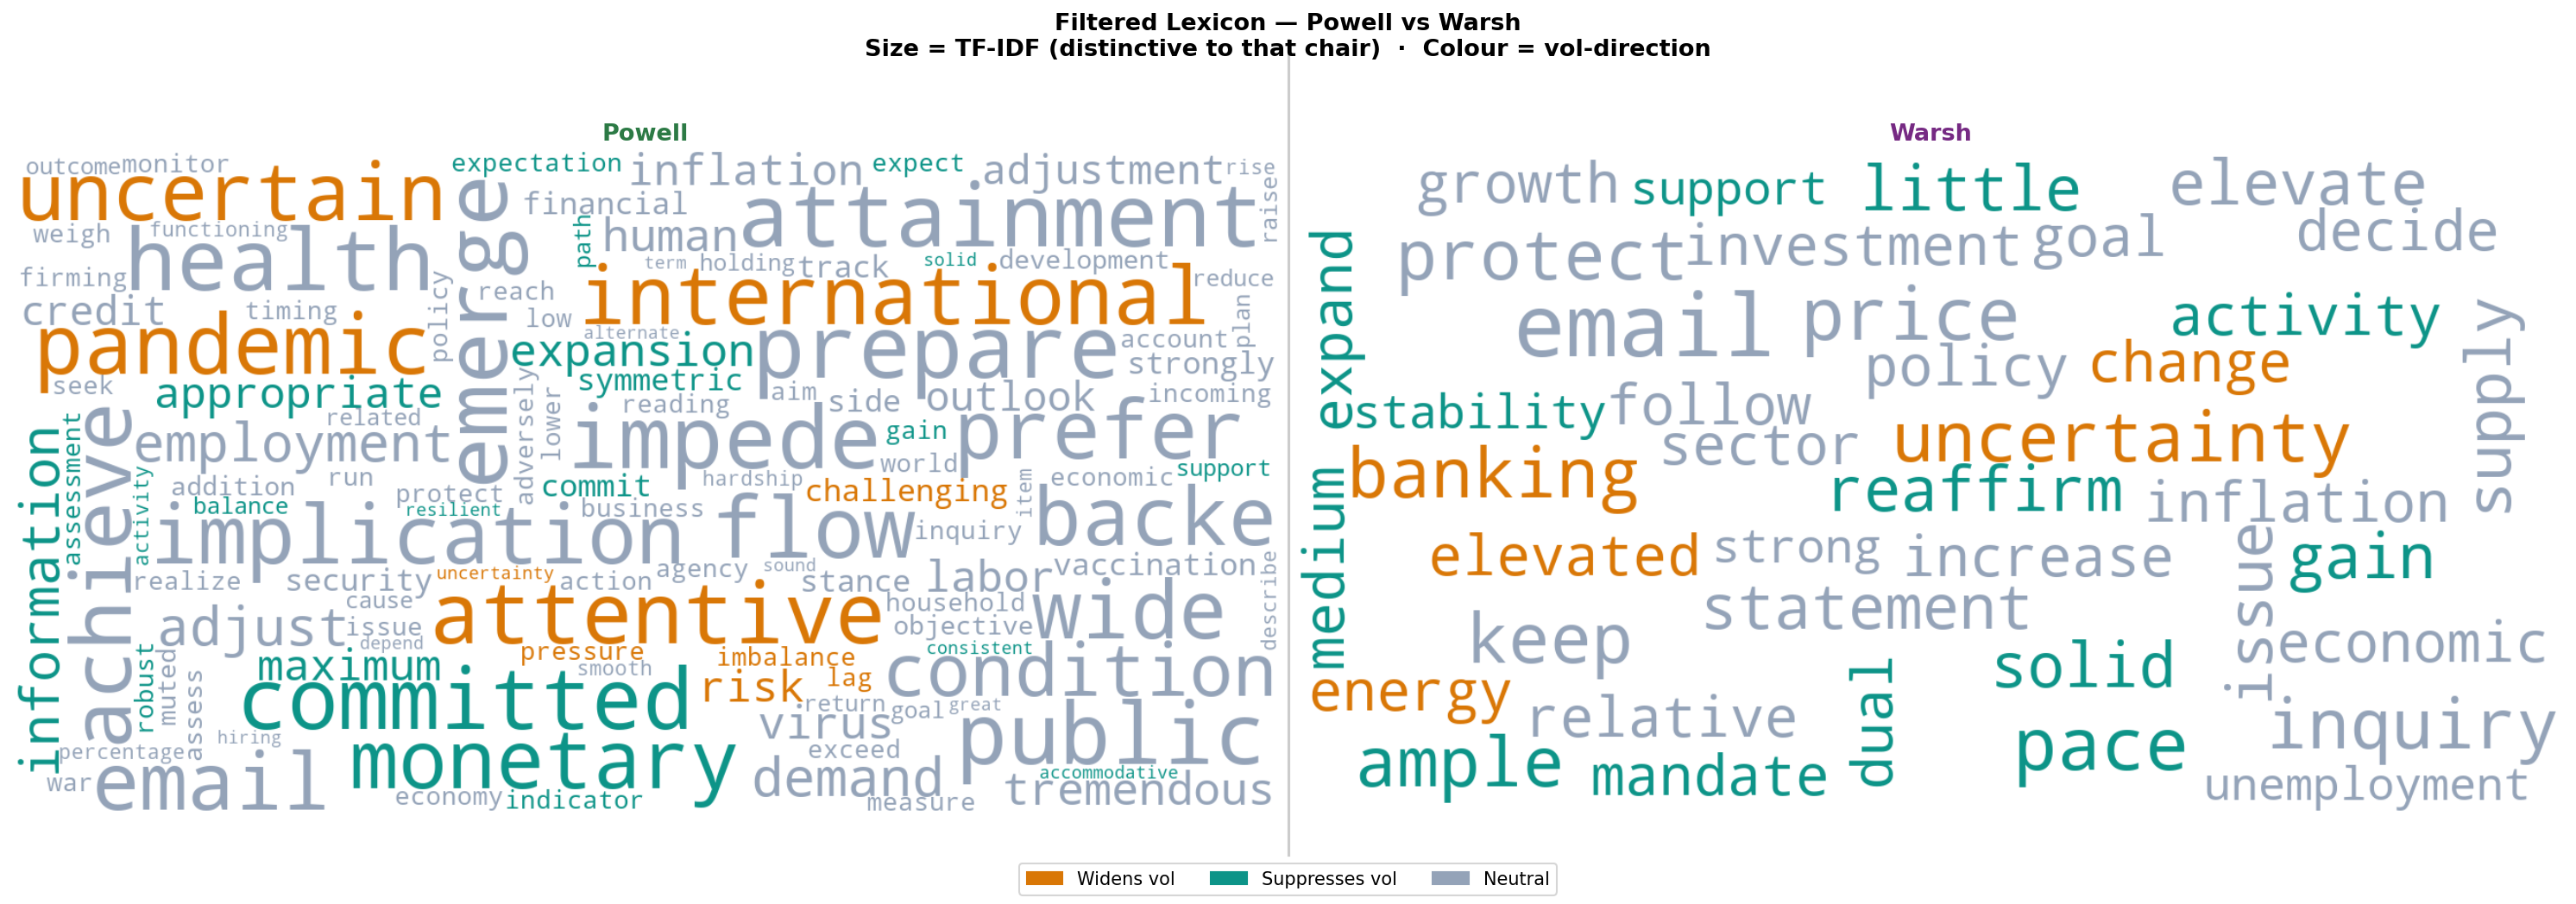
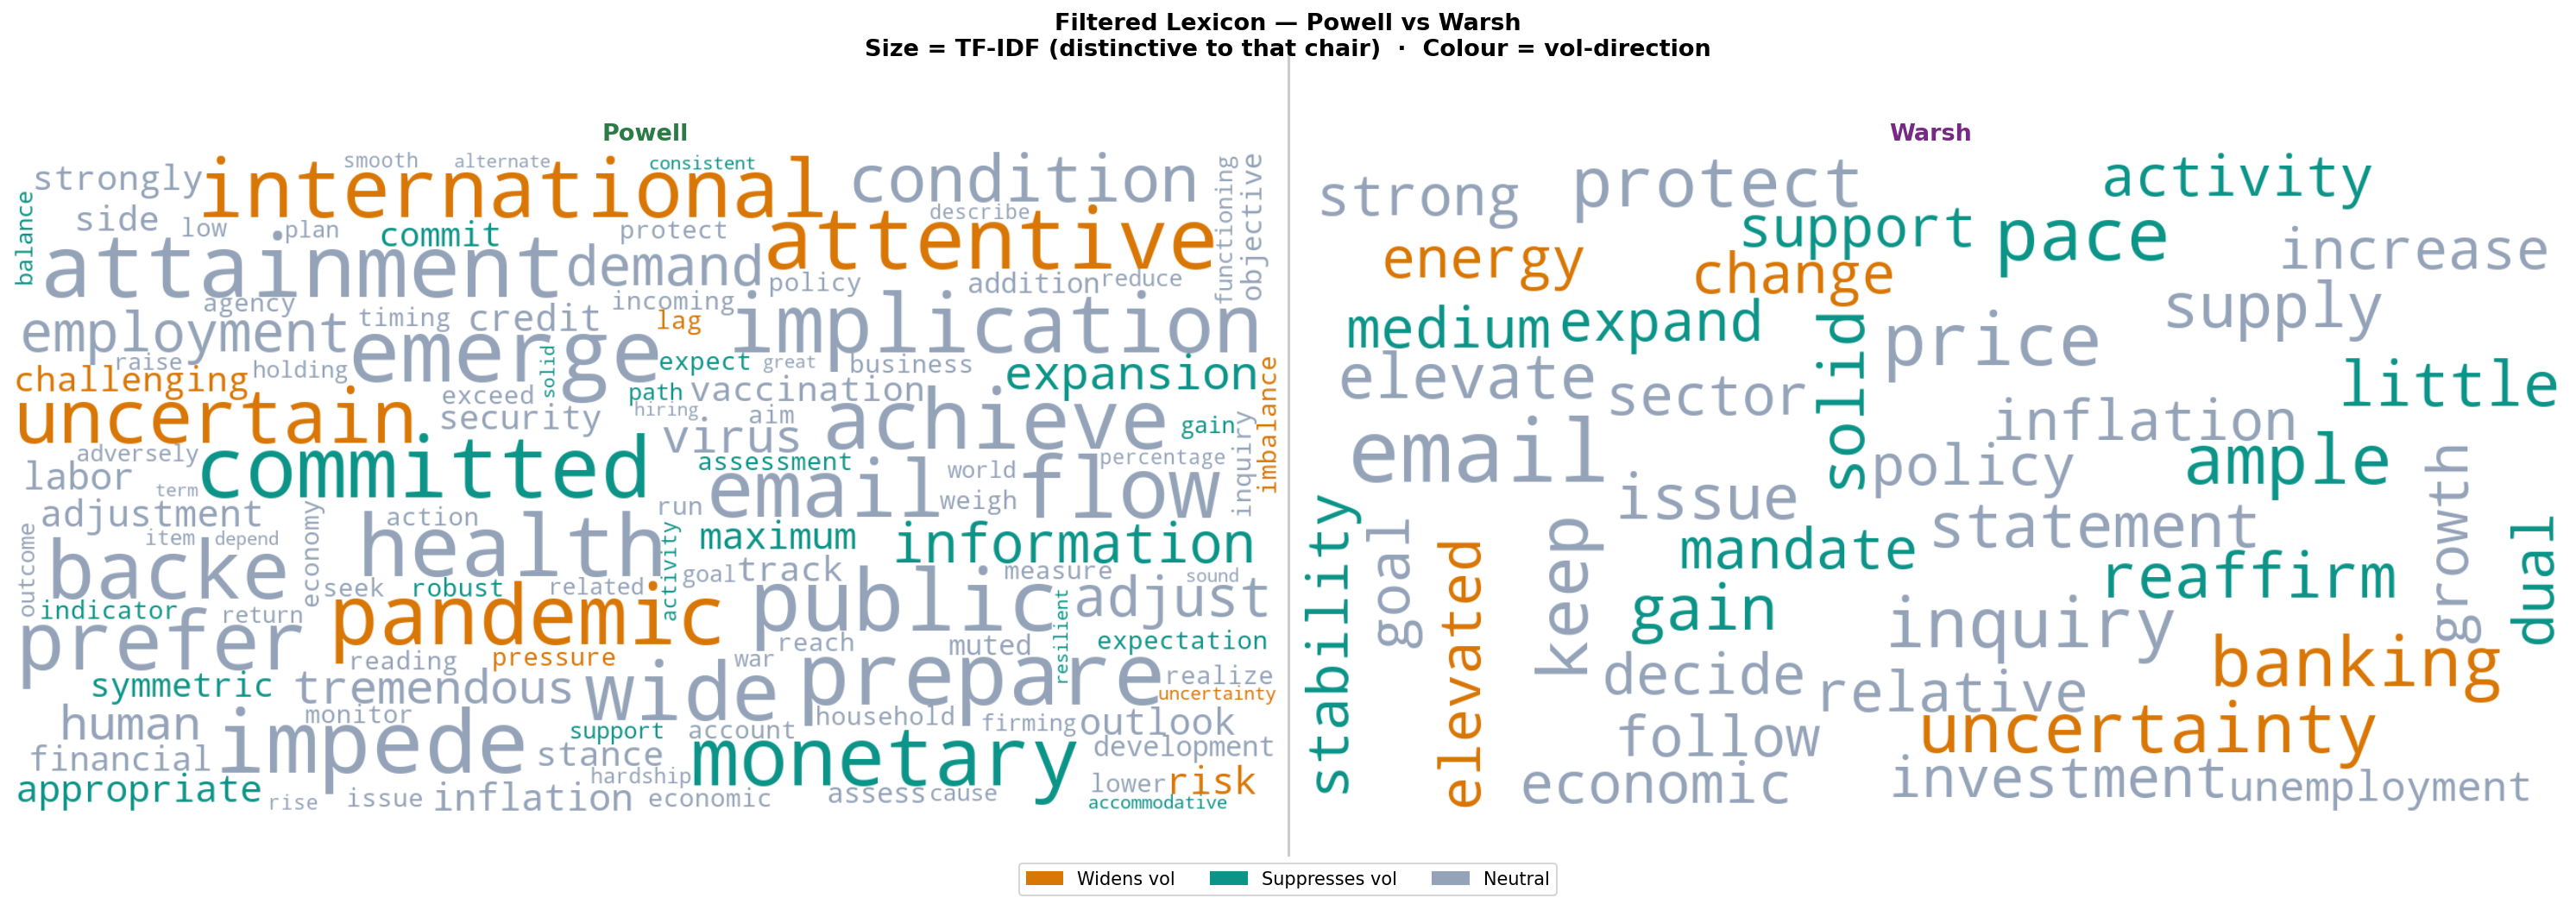
Fix layer0 VRP pipeline: ETF IV fallback + EWMA lag features
- Add ETF IV fallback to fomc_vrp_pipeline.py (post-May-2020 TYVIX gap):
  fills 245 rows via etf_gap_curve.parquet, raising total IV obs to 749
  and walk-forward OOS n from 54 to 103 across all tenors
- Add rv_ewma3 / rv_yc_ewma3 (span=3 EWMA, lagged 1 meeting) to
  build_panel() replacing single-meeting rv_lag1 to reduce timing noise
- Create build_vrp_pipeline_notebook.py build script for layer0
- Rebuild and re-execute fomc_vrp_pipeline.ipynb; sync to layer0
- gap_forecasts.parquet updated: 103 OOS predictions (was 54)
- Bootstrap Sharpe: 0.794 / hit rate: 81.1% (was 0.656 / 77.4%)

Changed region(s): [[0.0, 0.1527, 0.997, 0.916]]

diff --git a/build_vrp_pipeline_notebook.py b/build_vrp_pipeline_notebook.py
@@ -1,0 +1,87 @@
+"""
+Convert fomc_vrp_pipeline.py → fomc_vrp_pipeline.ipynb
+"""
+import re, json
+from pathlib import Path
+from uuid import uuid4
+
+SRC  = Path("fomc_vrp_pipeline.py")
+DEST = Path("fomc_vrp_pipeline.ipynb")
+
+text  = SRC.read_text(encoding="utf-8")
+lines = text.splitlines(keepends=True)
+
+cells_raw, current_kind, current_label, current_body = [], None, "", []
+CELL_RE = re.compile(r"^# %%(?P<md> \[markdown\])?(?P<label>.*)")
+
+
+def flush(kind, label, body):
+    if kind is not None and any(l.strip() for l in body):
+        cells_raw.append((kind, label.strip(), body[:]))
+
+
+for line in lines:
+    m = CELL_RE.match(line)
+    if m:
+        flush(current_kind, current_label, current_body)
+        current_kind  = "markdown" if m.group("md") else "code"
+        current_label = m.group("label") or ""
+        current_body  = []
+    else:
+        current_body.append(line)
+
+flush(current_kind, current_label, current_body)
+
+
+def make_cell(cell_type, source, cell_id):
+    base = {"cell_type": cell_type, "id": cell_id, "metadata": {}, "source": source}
+    if cell_type == "code":
+        base["outputs"] = []
+        base["execution_count"] = None
+    return base
+
+
+ROOT_NAV = """\
+import os, pathlib
+_m = "fomc_features.parquet"
+_d = pathlib.Path(".").resolve()
+for _ in range(6):
+    if (_d / _m).exists():
+        os.chdir(_d); break
+    _d = _d.parent
+else:
+    raise FileNotFoundError(f"Could not find {_m} above {pathlib.Path('.').resolve()}")
+print(f"Working directory → {os.getcwd()}")
+"""
+
+nb_cells = [make_cell("code", ROOT_NAV, uuid4().hex[:8])]
+
+for kind, label, body in cells_raw:
+    cell_id = uuid4().hex[:8]
+    if kind == "markdown":
+        md_lines = []
+        for l in body:
+            s = l.rstrip("\n")
+            md_lines.append((s[2:] if s.startswith("# ") else ("" if s == "#" else s)) + "\n")
+        source = "".join(md_lines).strip()
+        if source:
+            nb_cells.append(make_cell("markdown", source, cell_id))
+    else:
+        source = "".join(body).rstrip("\n")
+        if source.strip():
+            nb_cells.append(make_cell("code", source, cell_id))
+
+notebook = {
+    "nbformat": 4,
+    "nbformat_minor": 5,
+    "metadata": {
+        "kernelspec": {"display_name": "Python 3", "language": "python", "name": "python3"},
+        "language_info": {"name": "python", "version": "3.9.0"},
+    },
+    "cells": nb_cells,
+}
+
+DEST.write_text(json.dumps(notebook, indent=1, ensure_ascii=False), encoding="utf-8")
+print(f"Written {len(nb_cells)} cells → {DEST}")
+print(f"  code     : {sum(1 for c in nb_cells if c['cell_type'] == 'code')}")
+print(f"  markdown : {sum(1 for c in nb_cells if c['cell_type'] == 'markdown')}")

diff --git a/fomc_vrp_pipeline.py b/fomc_vrp_pipeline.py
@@ -845,6 +845,36 @@ def compute_vrp_gap(realized: pd.DataFrame, implied: pd.DataFrame) -> pd.DataFra
 
 
 vrp_panel = compute_vrp_gap(realized_curve, implied_curve)
+
+# ── ETF IV fallback: fill post-May-2020 gap (NaN after left-join above) ──────
+_etf_gap_path = Path("etf_gap_curve.parquet")
+if _etf_gap_path.exists():
+    _etf = pd.read_parquet(_etf_gap_path)
+    _etf["meeting_date"] = pd.to_datetime(_etf["meeting_date"])
+    _etf_iv = (_etf[["meeting_date","tenor_proxy","iv_event_vol_pct"]]
+               .rename(columns={"tenor_proxy": "tenor", "iv_event_vol_pct": "iv_etf_pct"})
+               .dropna(subset=["iv_etf_pct"]))
+    vrp_panel = vrp_panel.merge(_etf_iv, on=["meeting_date","tenor"], how="left")
+    _missing = vrp_panel["iv_event_vol"].isna() & vrp_panel["iv_etf_pct"].notna()
+    vrp_panel.loc[_missing, "iv_event_vol"] = vrp_panel.loc[_missing, "iv_etf_pct"]
+    vrp_panel.loc[_missing, "iv_event_var"] = (vrp_panel.loc[_missing, "iv_etf_pct"] / 100) ** 2
+    vrp_panel.loc[_missing, "gap_var"] = (
+        vrp_panel.loc[_missing, "iv_event_var"] - vrp_panel.loc[_missing, "rv_event_var"]
+    )
+    # iv_event_bps = pct × 100 × yield_ratio / (dur_10y × price_ratio)
+    for _t, _idx in vrp_panel[_missing].groupby("tenor").groups.items():
+        _ps = _price_vol_ratios.get(_t, 1.0)
+        _ys = _fomc_yield_ratios.get(_t, 1.0)
+        _bps = vrp_panel.loc[_idx, "iv_etf_pct"] * 100.0 * _ys / (max(_dur_10y, 1.0) * _ps)
+        vrp_panel.loc[_idx, "iv_event_bps"] = _bps
+        vrp_panel.loc[_idx, "gap_yc_bps"]   = _bps - vrp_panel.loc[_idx, "rv_event_yc"]
+        vrp_panel.loc[_idx, "gap_yc_bps2"]  = (
+            _bps ** 2 - vrp_panel.loc[_idx, "rv_event_yc"] ** 2
+        )
+    print(f"ETF IV fallback  : {_missing.sum()} rows filled  "
+          f"(total IV obs: {vrp_panel['iv_event_vol'].notna().sum()})")
+    vrp_panel.drop(columns=["iv_etf_pct"], inplace=True)
+
 vrp_panel.to_parquet(Path("vrp_cache") / "vrp_panel.parquet", index=False)
 
 # %% [markdown]
@@ -1489,6 +1519,10 @@ def build_panel(vrp_panel: pd.DataFrame, claude_scores: pd.DataFrame,
     panel = panel.sort_values(["tenor","meeting_date"])
     panel["rv_lag1"]    = panel.groupby("tenor")["rv_event_var"].shift(1)
     panel["rv_yc_lag1"] = panel.groupby("tenor")["rv_event_yc"].shift(1)
+    panel["rv_ewma3"]    = panel.groupby("tenor")["rv_event_var"].transform(
+        lambda x: x.ewm(span=3, adjust=False).mean().shift(1))
+    panel["rv_yc_ewma3"] = panel.groupby("tenor")["rv_event_yc"].transform(
+        lambda x: x.ewm(span=3, adjust=False).mean().shift(1))
 
     # Tenor × factor interactions
     panel["f1_x_tenor"] = panel["factor_1"] * panel["tenor_code"]